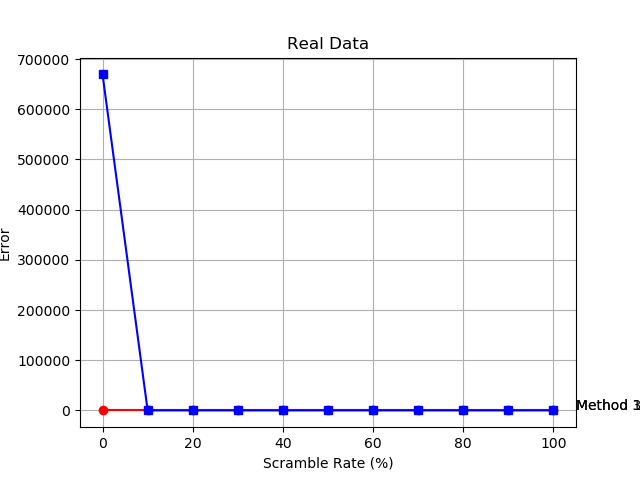
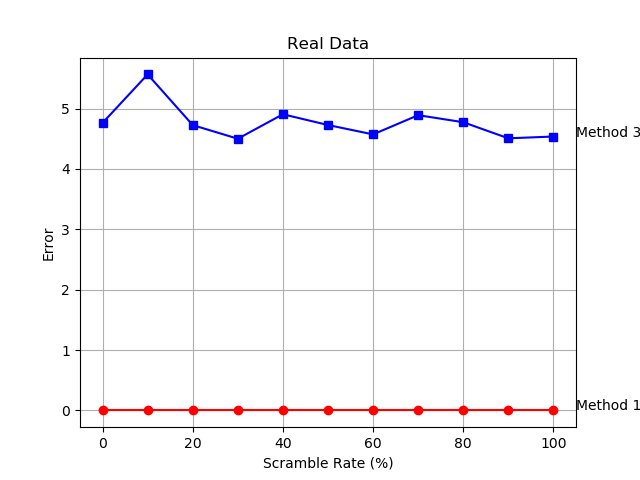
verifying solver 1

diff --git a/scripts/mainRealData.cpp b/scripts/mainRealData.cpp
@@ -75,7 +75,7 @@ int main()
     // 1 for identity; 2(or 3) for approximate measurement from kinematics
     // data of the robot; 3 for results from Prob 1.
 
-    int init_guess = 3;
+    int init_guess = 2;
     Eigen::Matrix4d X_init, Y_init, Z_init;
     Eigen::Matrix4d X_cal1, Y_cal1, Z_cal1, X_cal2, Y_cal2, Z_cal2, X_cal3, Y_cal3, Z_cal3;
 
@@ -95,7 +95,7 @@ int main()
         Z_init = fKine(qz3);
     }
 
-    bool isRandPerm = true;
+    bool isRandPerm = false;
 
     // Choice of scramble rate
     std::vector<int> r = {0, 10, 20, 30, 40, 50, 60, 70, 80, 90, 100};
@@ -165,6 +165,9 @@ int main()
     std::strftime(buffer, sizeof(buffer), "%Y-%m-%d %H:%M:%S", std::localtime(&now));
 
     outFile << "Current date and time: " << buffer << std::endl;
+
+    outFile << "Initial Guess: " << init_guess << std::endl;
+    outFile << "Scrambling: " << isRandPerm << std::endl;
 
     outFile << "Probability Method 1" << std::endl;
     outFile << "X_cal1: " << std::endl << X_cal1 << std::endl;

diff --git a/solvers/axbyczProb1.cpp b/solvers/axbyczProb1.cpp
@@ -59,6 +59,7 @@ void axbyczProb1(const std::vector<Eigen::Matrix4d>& A1,
     Eigen::Matrix4d MeanC1, MeanB1, MeanA2, MeanB2, MeanA2_inv, MeanB2_inv;
     Eigen::Matrix<double, 6, 6> SigC1, SigB1, SigA2, SigB2;
 
+    // Calculate MeanC1
     batchSolveXY(C1, B1, opt, nstd1, nstd2, Z_g, Y_dummy,
                  MeanC1, MeanB1, SigC1, SigB1);
 
@@ -83,6 +84,8 @@ void axbyczProb1(const std::vector<Eigen::Matrix4d>& A1,
 
     //// Solve for X
     std::vector<Eigen::Matrix4d> X_g;
+
+    // Calculate MeanA2
     batchSolveXY(A2, B2_inv, opt, nstd1, nstd2, X_g, Y_dummy,
                  MeanA2, MeanB2_inv, SigA2, SigB2);
 
